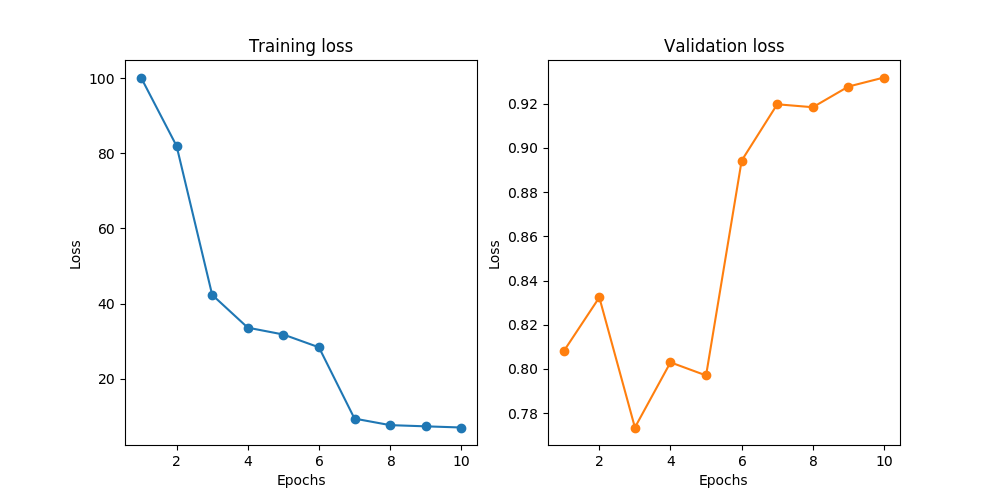
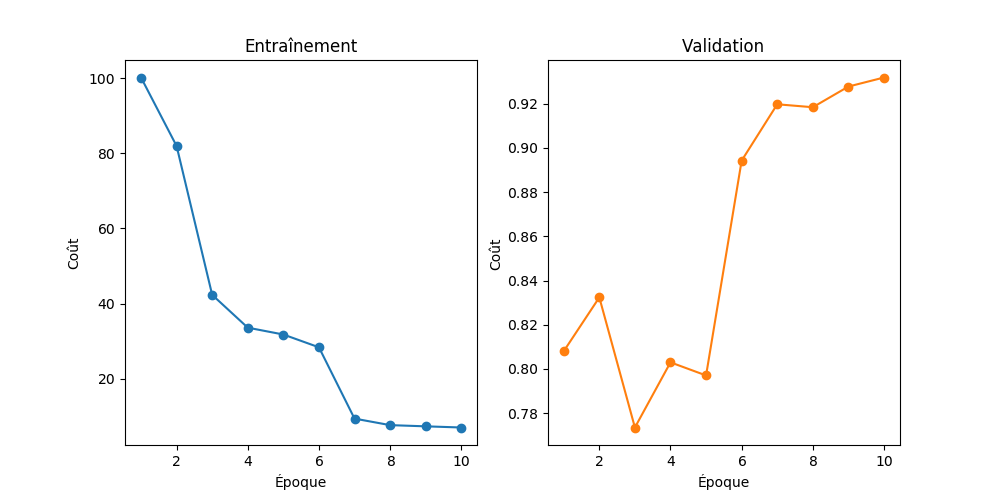
Correction des courbes

diff --git a/rapport/entrainements_resultats.tex b/rapport/entrainements_resultats.tex
@@ -7,28 +7,28 @@
 
     \begin{figure}[H]
         \centering
-        \includegraphics[width=12cm]{images/learning_curves_a.png}
+        \includegraphics[width=16cm]{images/learning_curves_a.png}
         \caption{Exemple de courbe d'apprentissage du modèle A}
         \label{fig:learning_curves_a}
     \end{figure}
 
     \begin{figure}[H]
         \centering
-        \includegraphics[width=12cm]{images/learning_curves_b.png}
+        \includegraphics[width=16cm]{images/learning_curves_b.png}
         \caption{Exemple de courbe d'apprentissage du modèle B}
         \label{fig:learning_curves_b}
     \end{figure}
 
     \begin{figure}[H]
         \centering
-        \includegraphics[width=12cm]{images/learning_curves_c.png}
+        \includegraphics[width=16cm]{images/learning_curves_c.png}
         \caption{Exemple de courbe d'apprentissage du modèle C}
         \label{fig:learning_curves_c}
     \end{figure}
 
     \begin{figure}[H]
         \centering
-        \includegraphics[width=12cm]{images/learning_curves_d.png}
+        \includegraphics[width=16cm]{images/learning_curves_d.png}
         \caption{Exemple de courbe d'apprentissage du modèle D}
         \label{fig:learning_curves_d}
     \end{figure}
@@ -99,7 +99,7 @@
 \subsubsection{Comparaison entre les modèles}
     \begin{figure}[H]
         \centering
-        \includegraphics[width=12cm]{images/tunnel_roc.png}
+        \includegraphics[width=8cm]{images/tunnel_roc.png}
         \caption{Courbes ROC - Tunnel}
         \label{fig:tunnel_roc}
     \end{figure}
@@ -185,7 +185,7 @@
 \subsubsection{Comparaison entre les modèles}
     \begin{figure}[H]
         \centering
-        \includegraphics[width=12cm]{images/corridor_roc.png}
+        \includegraphics[width=8cm]{images/corridor_roc.png}
         \caption{Courbes ROC - Faculté de génie}
         \label{fig:corridor_roc}
     \end{figure}

diff --git a/nn/learning_curves.py b/nn/learning_curves.py
@@ -22,14 +22,14 @@ class LearningCurves:
 
         epochs = range(1, len(self._training_loss_values) + 1)
         ax1.plot(epochs, self._training_loss_values, '-o')
-        ax1.set_title('Training loss')
-        ax1.set_xlabel('Epochs')
-        ax1.set_ylabel('Loss')
+        ax1.set_title(u'Entraînement')
+        ax1.set_xlabel(u'Époque')
+        ax1.set_ylabel(u'Coût')
 
         epochs = range(1, len(self._validation_loss_values) + 1)
         ax2.plot(epochs, self._validation_loss_values, '-o', color='tab:orange')
-        ax2.set_title('Validation loss')
-        ax2.set_xlabel('Epochs')
-        ax2.set_ylabel('Loss')
+        ax2.set_title(u'Validation')
+        ax2.set_xlabel(u'Époque')
+        ax2.set_ylabel(u'Coût')
 
         fig.savefig(output_path)
